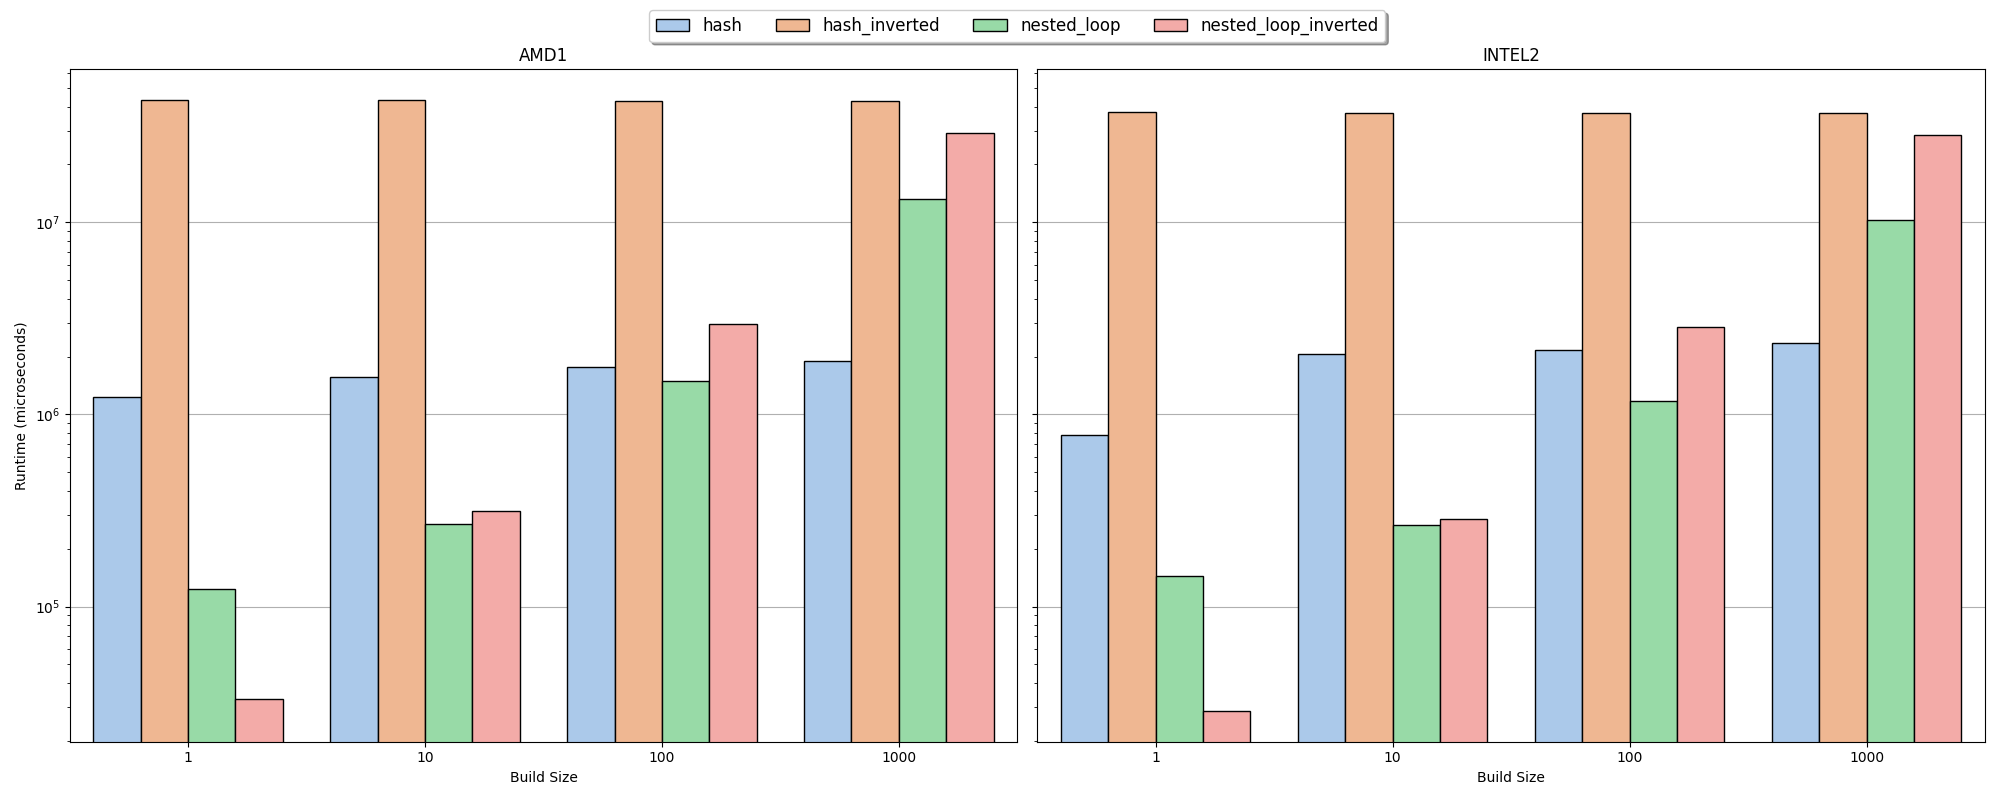
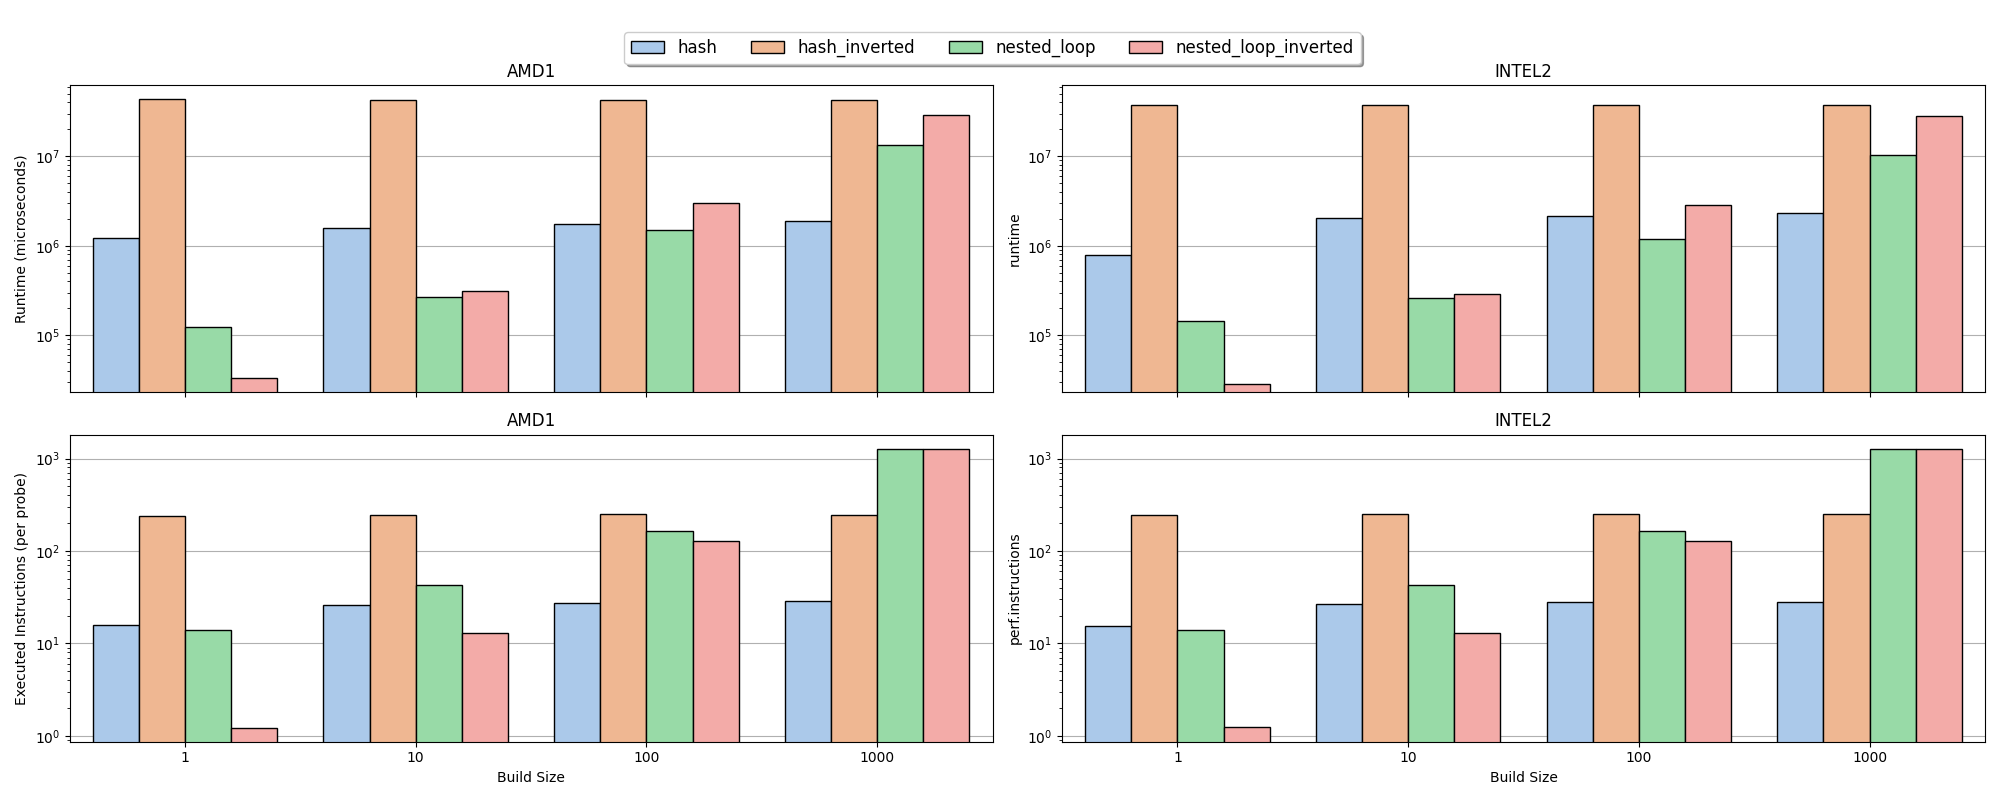
update plot to also use perf metric

diff --git a/visualization/join_benchmark.py b/visualization/join_benchmark.py
@@ -7,7 +7,7 @@ import pandas as pd
 from helper import *
 
 
-def plot_join_benchmark():
+def plot_join_benchmark(metrics, labels):
     df = load_results_benchmark_directory_to_pandas(
         f"{DATA_DIR}/join_benchmark_different_build_sizes"
     )
@@ -16,47 +16,51 @@ def plot_join_benchmark():
     join_algos = df["config.algo"].unique()
 
     fig, axes = plt.subplots(
-        1,
+        len(metrics),
         len(unique_ids),
         figsize=(20, 8),
         sharex=True,
-        sharey=True,
     )
 
     if len(unique_ids) == 1:
         axes = [axes]
 
-    for i, unique_id in enumerate(unique_ids):
-        ax = axes[i]
-        filtered_df = df[df["id"] == unique_id]
+    for y, (metric, label) in enumerate(zip(metrics, labels)):
+        for i, unique_id in enumerate(unique_ids):
 
-        sns.barplot(
-            data=filtered_df,
-            x="config.build_size",
-            y="runtime",
-            hue="config.algo",
-            ax=ax,
-            zorder=2,
-            palette="pastel",
-            edgecolor="black",
-        )
+            ax = axes[y][i]
+            filtered_df = df[df["id"] == unique_id]
 
-        ax.set_title(f"{unique_id}")
-        ax.set_xlabel("Build Size")
-        ax.set_ylabel("Runtime (microseconds)")
-        ax.set_yscale("log")
-        ax.grid(True, zorder=0, axis="y")
-        if i != 0:
-            ax.legend([], [], frameon=False)
+            sns.barplot(
+                data=filtered_df,
+                x="config.build_size",
+                y=metric,
+                hue="config.algo",
+                ax=ax,
+                zorder=2,
+                palette="pastel",
+                edgecolor="black",
+            )
 
-    handles, labels = axes[0].get_legend_handles_labels()
+            ax.set_title(f"{unique_id}")
+            if y == len(metrics) - 1:
+                ax.set_xlabel("Build Size")
+            if i == 0:
+                ax.set_ylabel(label)
+            ax.set_yscale("log")
+            ax.grid(True, zorder=0, axis="y")
+            if not (i == 0 and y == 0):
+                ax.legend([], [], frameon=False)
+        for j in range(1, len(unique_ids)):
+            axes[y][j].sharey(axes[y][0])
+    handles, labels = axes[0][0].get_legend_handles_labels()
 
-    plt.tight_layout(rect=[0.0, 0.0, 1, 0.96])
-    axes[0].legend(
+    plt.tight_layout(rect=[0.0, 0.0, 1, 0.94])
+    axes[0][0].legend(
         handles=handles,
         labels=labels,
         loc="upper center",
-        bbox_to_anchor=(len(unique_ids) / 2.0, 1.1),
+        bbox_to_anchor=(len(unique_ids) / 2.0, 1.2),
         ncol=len(join_algos),
         fancybox=True,
         shadow=True,
@@ -67,4 +71,7 @@ def plot_join_benchmark():
 
 
 if __name__ == "__main__":
-    plot_join_benchmark()
+    plot_join_benchmark(
+        ["runtime", "perf.instructions"],
+        ["Runtime (microseconds)", "Executed Instructions (per probe)"],
+    )
